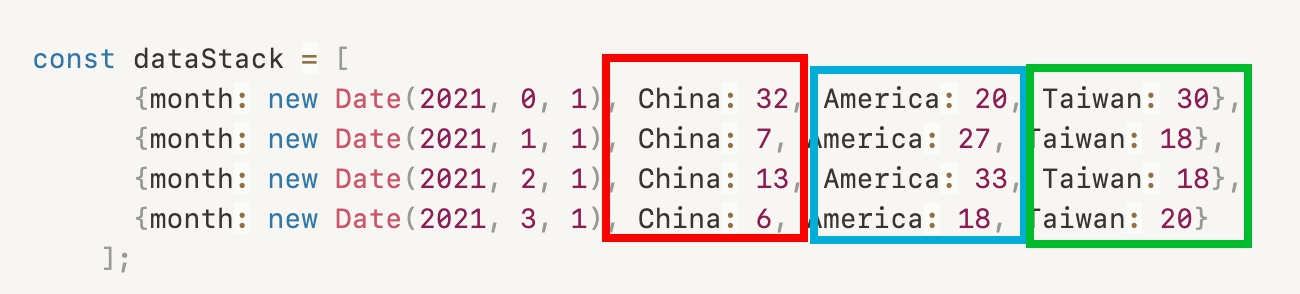
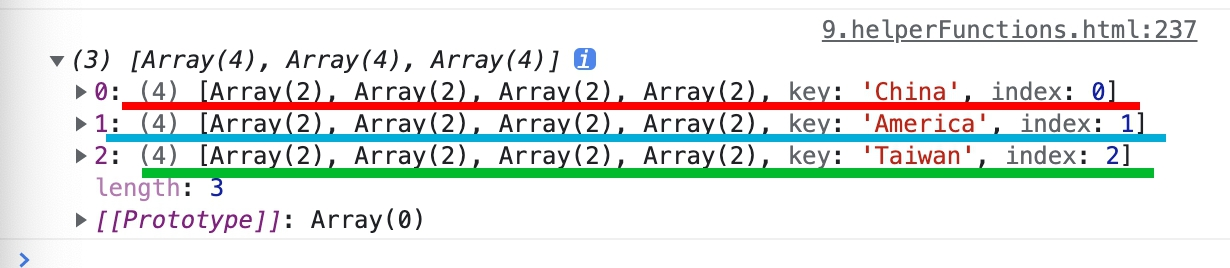
stack

Changed region(s): [[0.0, 0.0, 0.9886, 1.0], [0.6488, 0.0597, 0.9886, 0.1791]]

diff --git a/app/9.helperFunctions.html b/app/9.helperFunctions.html
@@ -109,10 +109,10 @@ current: Helper Functions
 
     // stack
     const dataStack = [
-      {month: new Date(2021, 0, 1), China: 32, America: 20, Taiwan: 30},
-      {month: new Date(2021, 1, 1), China: 7, America: 27, Taiwan: 18},
-      {month: new Date(2021, 2, 1), China: 13, America: 33, Taiwan: 18},
-      {month: new Date(2021, 3, 1), China: 27, America: 12, Taiwan: 20}
+      {month: new Date(2021, 0, 1), China: 132, America: 80, Taiwan: 30},
+      {month: new Date(2021, 1, 1), China: 67, America: 27, Taiwan: 188},
+      {month: new Date(2021, 2, 1), China: 123, America: 153, Taiwan: 18},
+      {month: new Date(2021, 3, 1), China: 27, America: 112, Taiwan: 20}
     ];
 
     const stack = d3.stack()
@@ -121,30 +121,27 @@ current: Helper Functions
     const stackedSeries = stack(dataStack);
     console.log(stackedSeries)
 
-    // scale
-    const xStackScale = d3.scaleTime()
-                     .domain([dataStack[0].month, dataStack[3].month])
-                     .range([50, 250])
-    
-    const yStackScale = d3.scaleLinear()
-                     .domain([0,80])
-                     .range([250,50])
-
+    // 顏色
     const colorScale = d3.scaleOrdinal()
                          .domain(['China', 'America', 'Taiwan'])
                          .range(["red", "blue", "orange"])
 
-    const stackArea = d3.area()
-                        .x(d => xStackScale(d.data.month))
-                        .y0(d => yStackScale(d[0]))
-                        .y1(d => yStackScale(d[1]))
-    d3.select('.stack')
-      .attr('width', 300)
-      .attr('height', 300)
-      .selectAll('.area')
-       .data(stackedSeries)
-       .join('path')
-       .attr('d', stackArea)
-       .attr('fill', d => colorScale(d.key));
+    // 建立集合元素g、設定顏色
+    const g = d3.select('.stack')
+                .attr('width', 300)
+                .selectAll('g')
+                .data(stackedSeries)
+                .enter()
+                .append('g')
+                .attr('fill', d => colorScale(d.key));
+    
+    // 繪製長條圖
+    g.selectAll('rect')
+      .data(d=>d)
+      .join('rect')
+      .attr('width', d => d[1] - d[0]) // 長度為終點值減掉起始值
+      .attr('x', d => d[0]) // x 座標設定為起始值
+      .attr('y', (d, i) => i *30) // y 座標用 index 來處理，乘上每條bar想拉開的距離
+      .attr('height', 20);
 
 </script>
